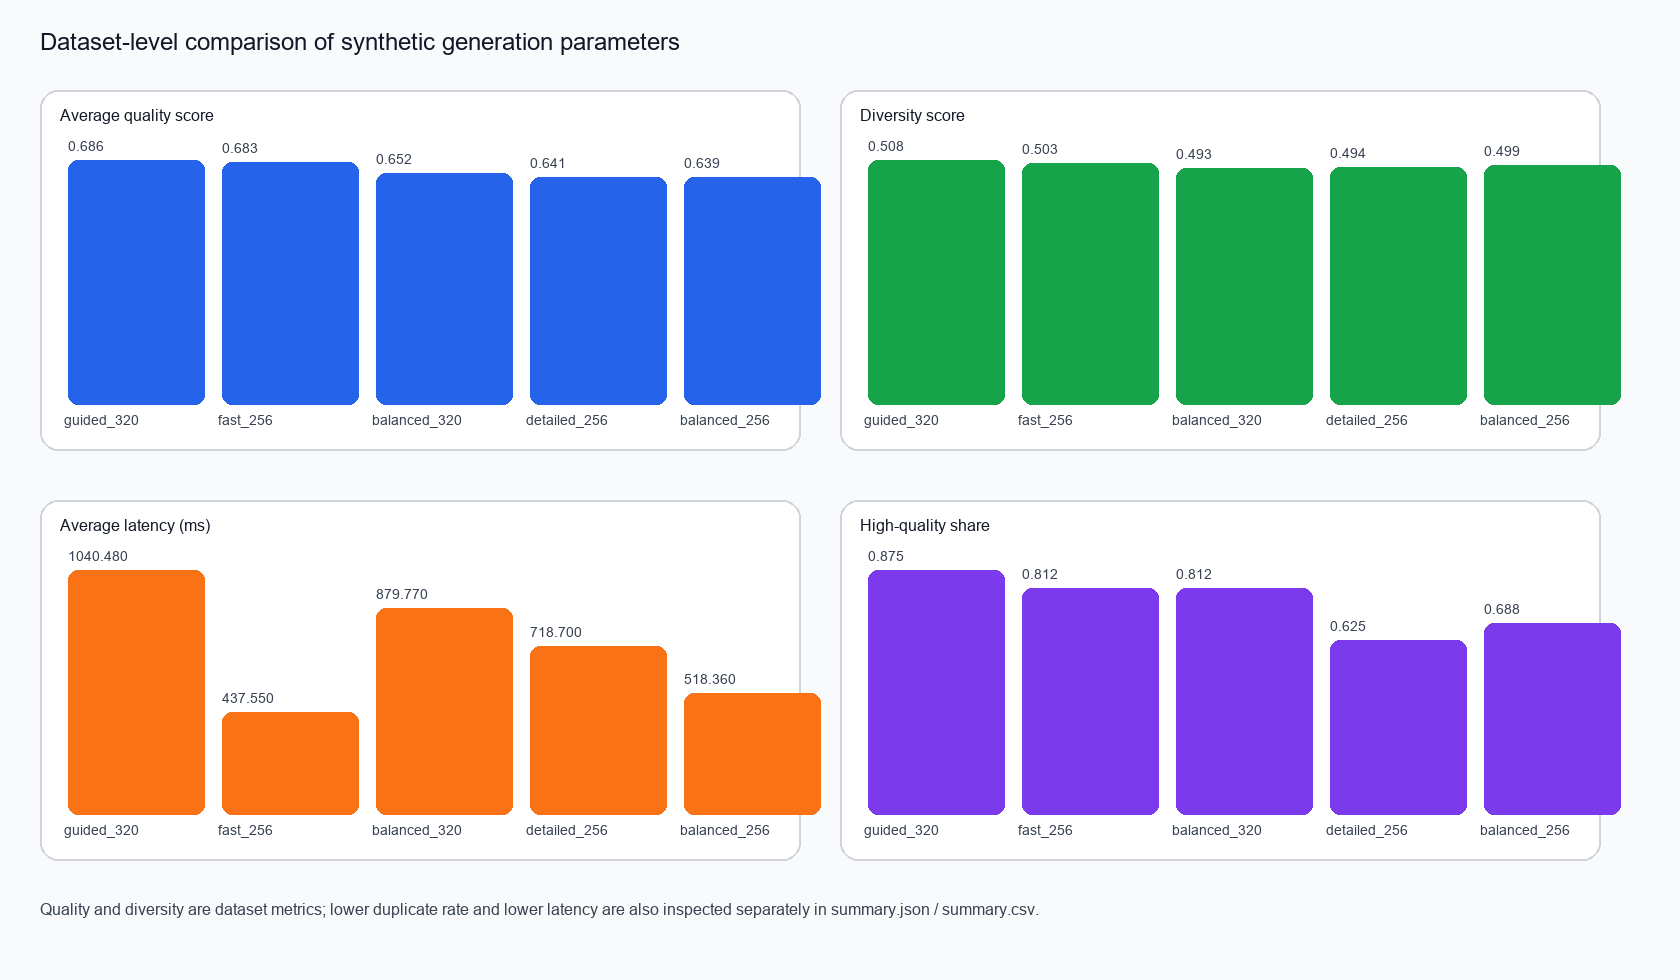
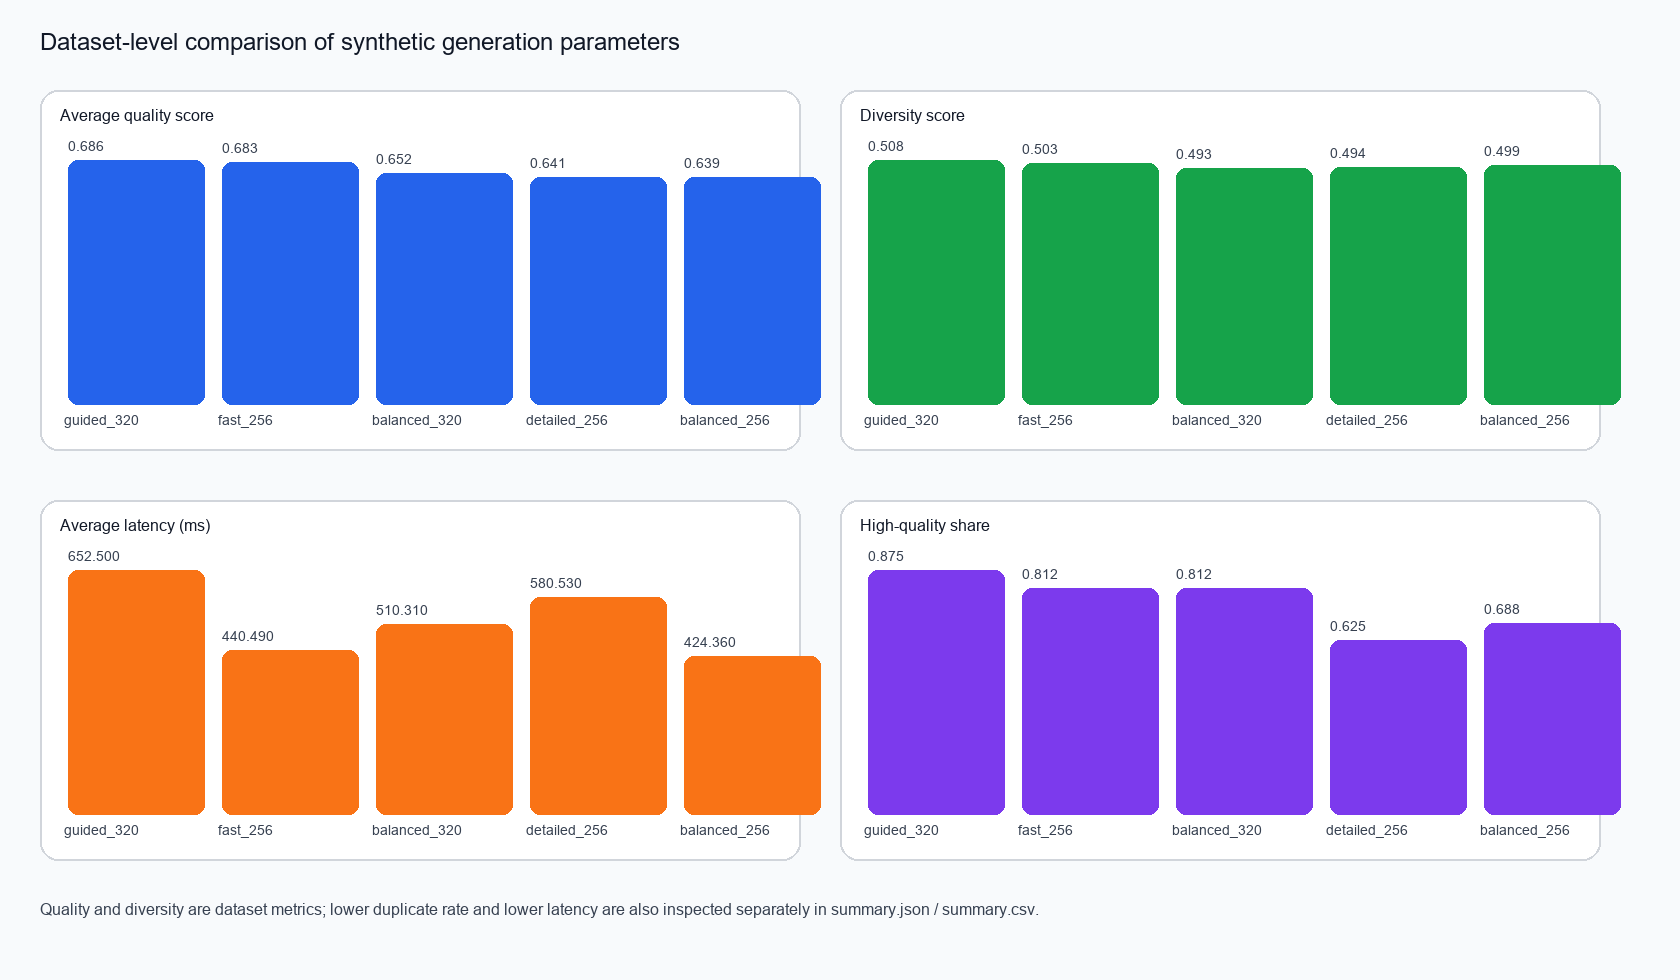
Fix MLflow experiment tracking on Windows

Changed region(s): [[0.2167, 0.5816, 0.4952, 0.7041], [0.1238, 0.6429, 0.2167, 0.7347], [0.031, 0.551, 0.0619, 0.5816]]

diff --git a/synthetic_dataset/run_dataset_parameter_experiments.py b/synthetic_dataset/run_dataset_parameter_experiments.py
@@ -2,6 +2,7 @@ import csv
 import json
 import math
 import os
+import sys
 import time
 from collections import Counter, defaultdict
 from dataclasses import asdict, dataclass
@@ -20,6 +21,12 @@ except ImportError:
 
 from generate_diffusion_dataset import NEGATIVE_PROMPT, PROMPTS, enhanced_prompt
 
+try:
+    sys.stdout.reconfigure(encoding="utf-8")
+    sys.stderr.reconfigure(encoding="utf-8")
+except Exception:
+    pass
+
 
 ROOT = Path(__file__).resolve().parent
 REPO_ROOT = ROOT.parent
@@ -33,7 +40,7 @@ PREVIEW_PLOT = OUTPUT_ROOT / "experiment_preview_grid.png"
 PROMPT_POOL_JSON = OUTPUT_ROOT / "prompt_pool.json"
 MLFLOW_ENABLED = os.getenv("MLFLOW_ENABLED", "true").lower() == "true"
 MLFLOW_TRACKING_URI = os.getenv("MLFLOW_TRACKING_URI", "http://localhost:5000")
-MLFLOW_EXPERIMENT_NAME = os.getenv("MLFLOW_EXPERIMENT_NAME", "synthetic-dataset-parameter-search")
+MLFLOW_EXPERIMENT_NAME = os.getenv("MLFLOW_EXPERIMENT_NAME", "synthetic-dataset-parameter-search-v2")
 
 
 @dataclass
@@ -270,8 +277,12 @@ def log_experiment_run_to_mlflow(config: ExperimentConfig, stats: dict, exp_dir:
                 "avg_file_size_kb": float(stats["avg_file_size_kb"]),
             }
         )
-        mlflow.log_dict(stats, "stats.json")
-        mlflow.log_artifacts(str(exp_dir), artifact_path=f"parameter_experiments/{config.name}")
+        try:
+            mlflow.log_artifacts(str(exp_dir), artifact_path=f"parameter_experiments/{config.name}")
+            mlflow.set_tag("artifact_logging", "ok")
+        except Exception as exc:
+            mlflow.set_tag("artifact_logging", f"failed:{type(exc).__name__}")
+            mlflow.set_tag("artifact_logging_error", str(exc))
 
 
 def metric_bar_panel(draw: ImageDraw.ImageDraw, area: tuple[int, int, int, int], title: str, rows: list[dict], key: str, color: str):
@@ -400,7 +411,12 @@ def run():
                 "tracking_uri": MLFLOW_TRACKING_URI,
             }
         )
-        mlflow.log_artifact(str(PROMPT_POOL_JSON), artifact_path="dataset_setup")
+        try:
+            mlflow.log_artifact(str(PROMPT_POOL_JSON), artifact_path="dataset_setup")
+            mlflow.set_tag("setup_artifact_logging", "ok")
+        except Exception as exc:
+            mlflow.set_tag("setup_artifact_logging", f"failed:{type(exc).__name__}")
+            mlflow.set_tag("setup_artifact_logging_error", str(exc))
 
     try:
         for exp_index, config in enumerate(EXPERIMENTS):
@@ -503,10 +519,17 @@ def run():
                     "best_num_inference_steps": best["num_inference_steps"],
                 }
             )
-            mlflow.log_artifact(str(SUMMARY_JSON), artifact_path="dataset_summary")
-            mlflow.log_artifact(str(SUMMARY_CSV), artifact_path="dataset_summary")
-            mlflow.log_artifact(str(COMPARISON_PLOT), artifact_path="plots")
-            mlflow.log_artifact(str(PREVIEW_PLOT), artifact_path="plots")
+            for local_path, artifact_path in [
+                (str(SUMMARY_JSON), "dataset_summary"),
+                (str(SUMMARY_CSV), "dataset_summary"),
+                (str(COMPARISON_PLOT), "plots"),
+                (str(PREVIEW_PLOT), "plots"),
+            ]:
+                try:
+                    mlflow.log_artifact(local_path, artifact_path=artifact_path)
+                except Exception as exc:
+                    mlflow.set_tag("final_artifact_logging", f"failed:{type(exc).__name__}")
+                    mlflow.set_tag("final_artifact_logging_error", str(exc))
 
         print(json.dumps(summary_rows, ensure_ascii=False, indent=2))
     finally:

diff --git a/README.md b/README.md
@@ -105,7 +105,7 @@ curl "http://localhost:8000/experiments/summary"
 python synthetic_dataset/run_dataset_parameter_experiments.py
 ```
 
-По умолчанию скрипт пишет в `MLFLOW_TRACKING_URI=http://localhost:5000` и создаёт experiment `synthetic-dataset-parameter-search`. В runs сохраняются:
+По умолчанию скрипт пишет в `MLFLOW_TRACKING_URI=http://localhost:5000` и создаёт experiment `synthetic-dataset-parameter-search-v2`. В runs сохраняются:
 
 - параметры генерации (`resolution`, `num_inference_steps`, `guidance_scale`);
 - dataset-level метрики (`avg_quality_score`, `diversity_score`, `near_duplicate_rate`, `avg_latency_ms`);
@@ -1390,7 +1390,7 @@ Offline-конвейер генерации synthetic dataset и расчёта 
 - `frontend/Dockerfile`
 - `monitoring/Dockerfile`
 - `db/Dockerfile`
-- `mlflow/Dockerfile`
+- `mlflow_service/Dockerfile`
 
 Также используются:
 
